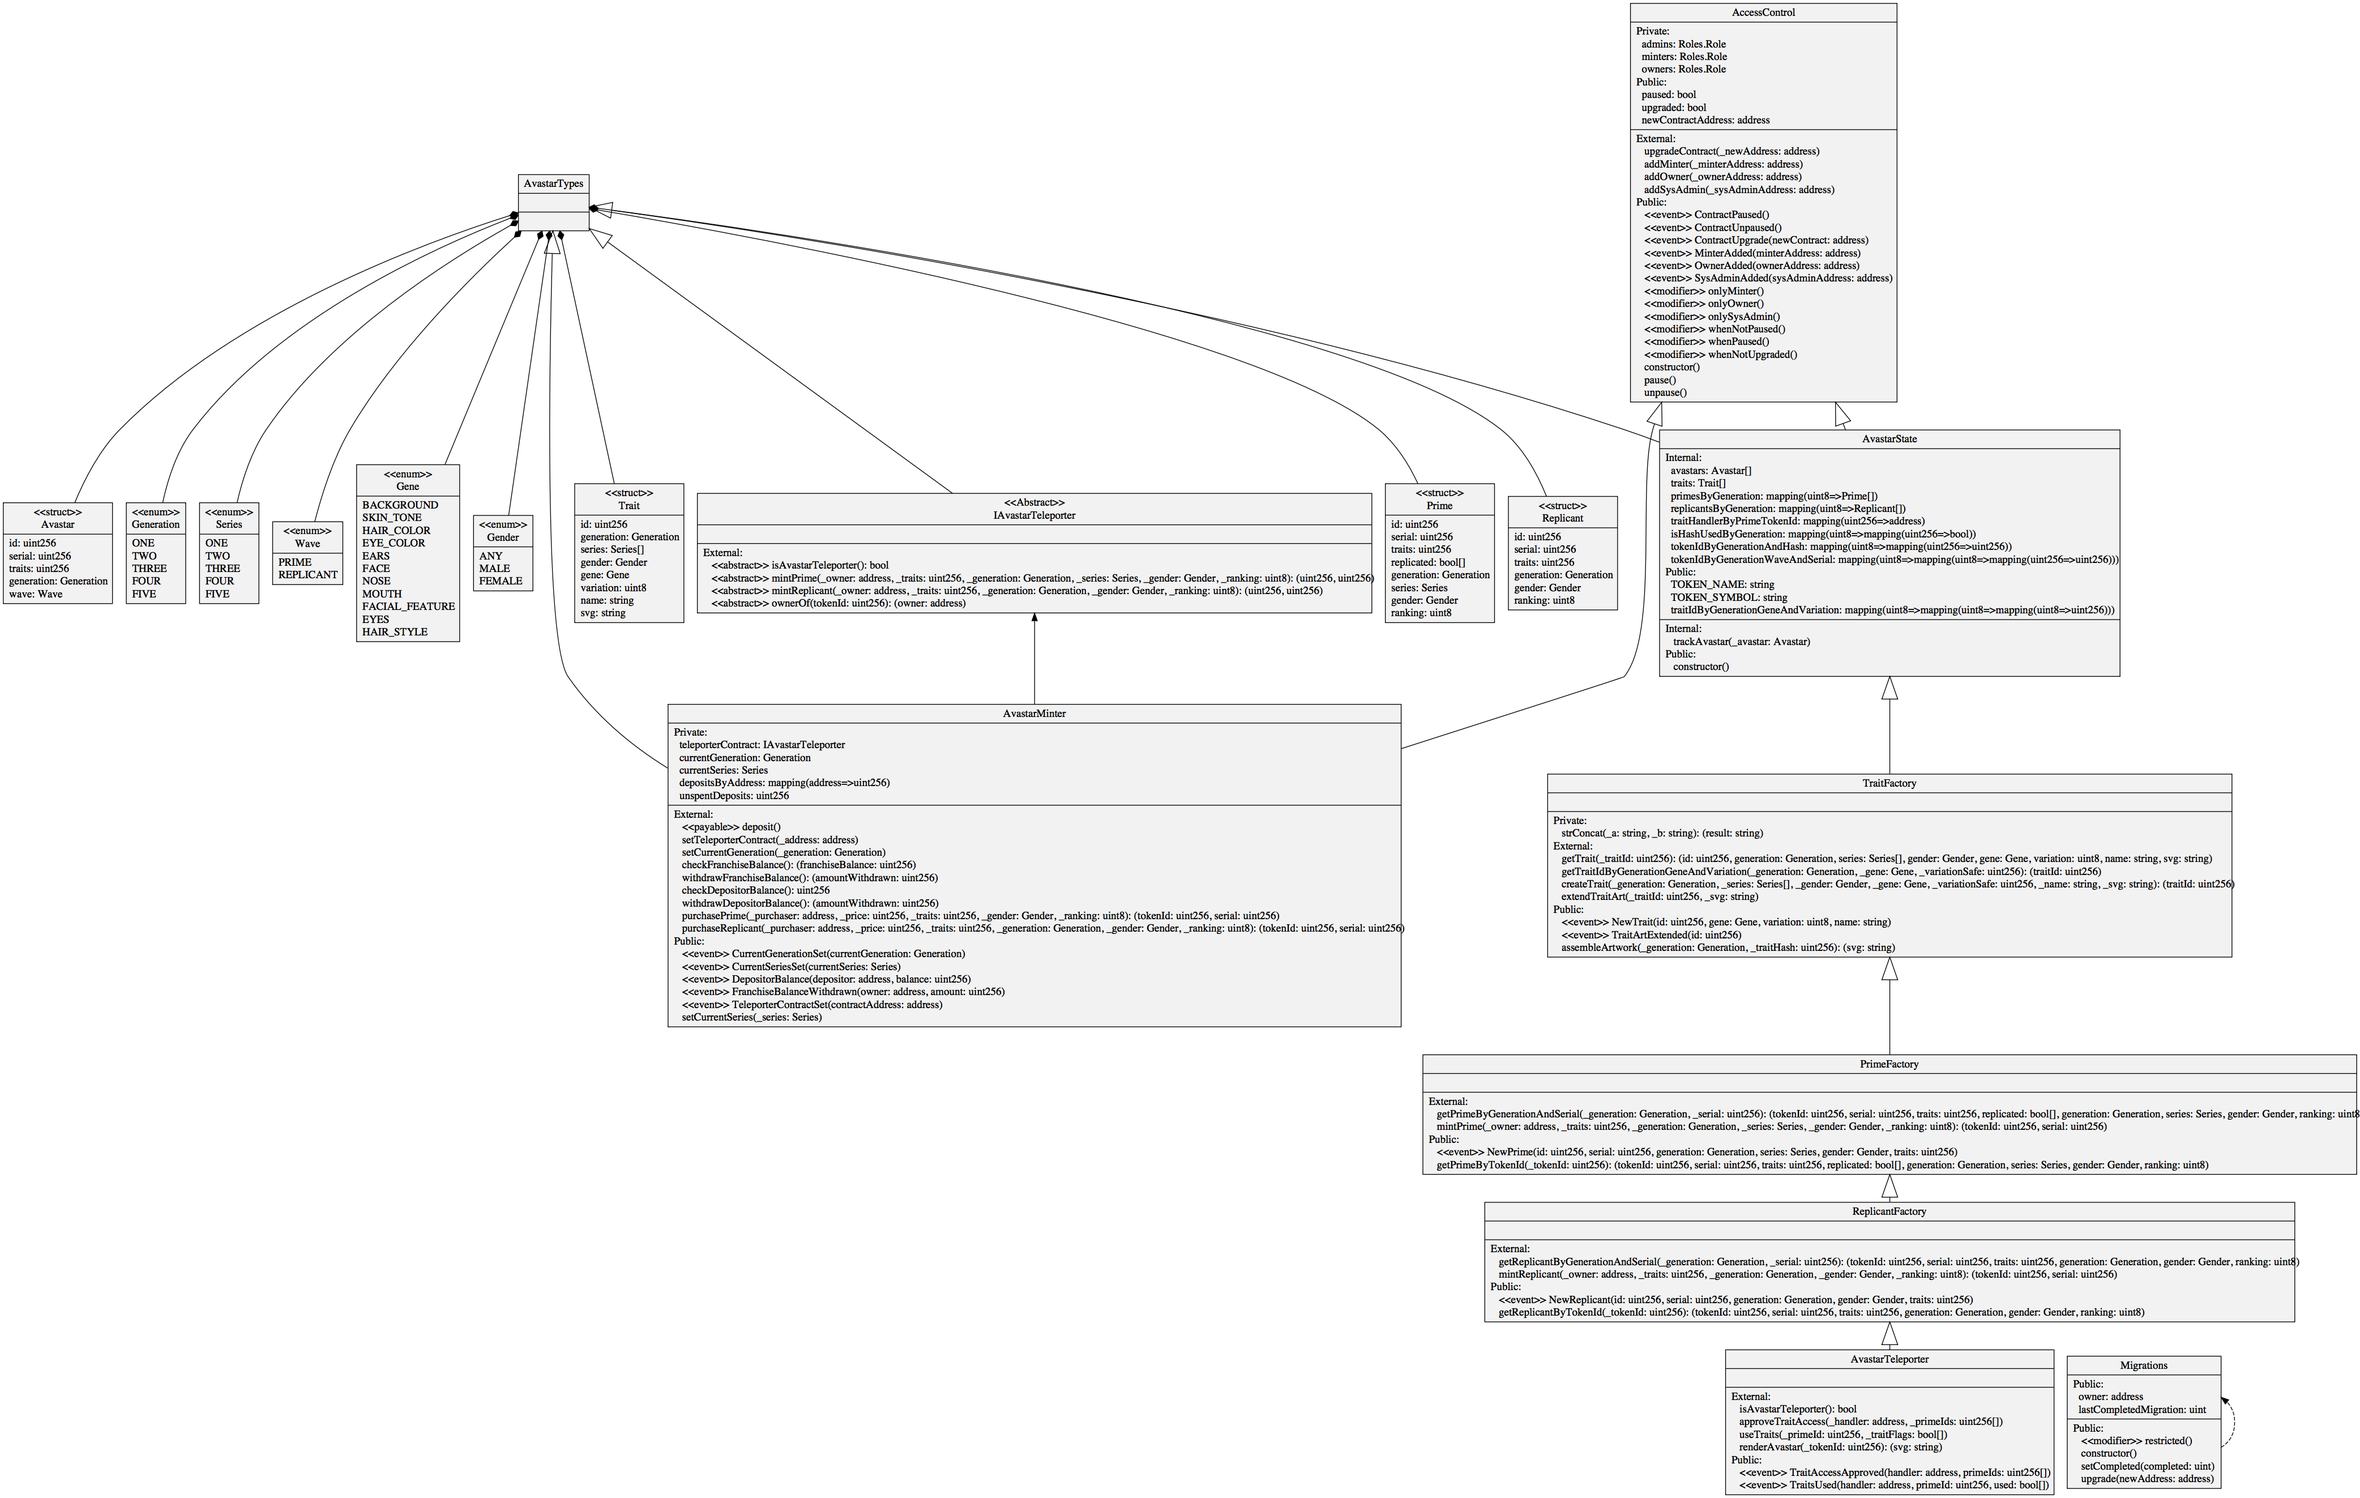
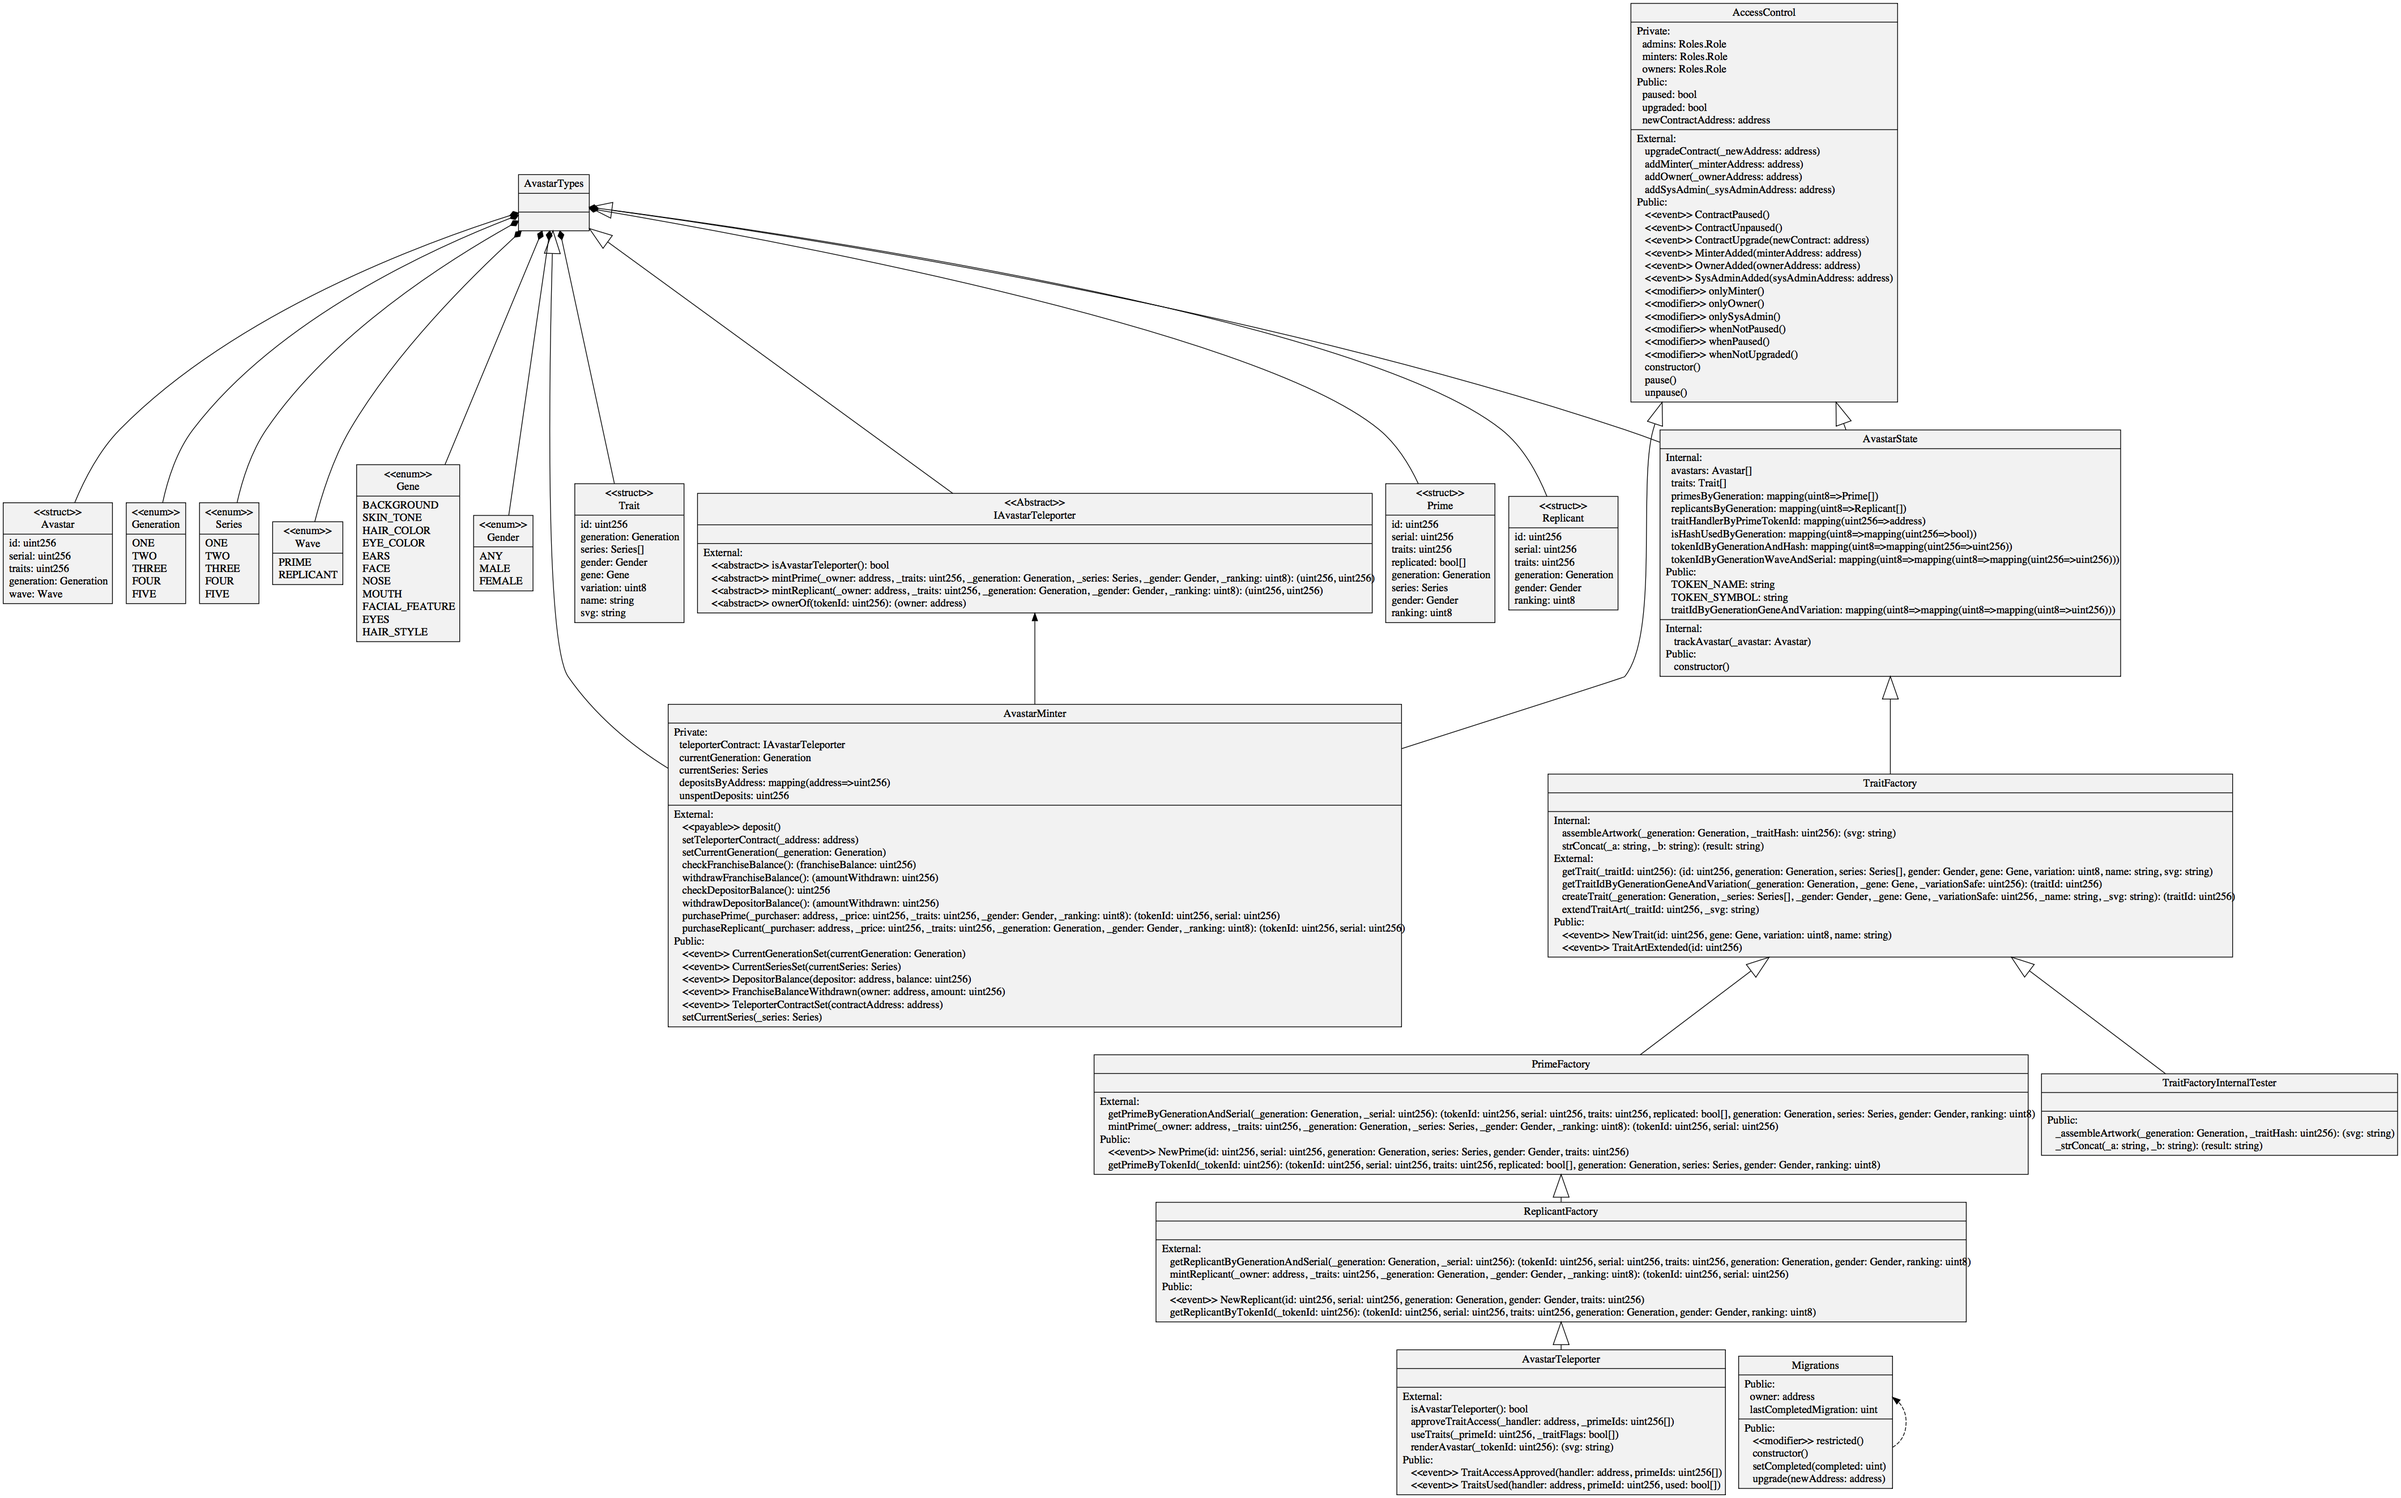
Test TraitFactory internal functions * In TraitFactory.sol,   - changed assembleArtwork from public to internal so that no one can just randomly generate art from a hash and generation.   - changed strConcat from private to internal so that it can be tested via descendant contract
* Added TraitFactoryInternalTester.sol,
  - is a side contract for testing only, not deployed or inherited
  - extends TraitFactory allowing tests to access any public or external TraitFactory function
  - has public _assembleArtwork function that is a passthrough for testing TraitFactory.assembleArtwork
    - has public _strConcat function that is a passthrough for testing TraitFactory.strConcat

* Updated docs and UML

* In TraitFactoryTest.js,
  - import TraitFactoryInternalTester.sol
  - use TraitFactoryInternalTester as contract for all tests instead of TraitFactory
  - added tests that TraitFactory
    - "should allow descendent contracts to assemble artwork by generation and trait hash"
    - "should allow descendent contracts to concatenate two strings"

* In package.json,
  - removed some unused dependencies and config

diff --git a/test/TraitFactoryTest.js b/test/TraitFactoryTest.js
@@ -1,4 +1,5 @@
 const TraitFactory = artifacts.require("./TraitFactory.sol");
+const InternalTester = artifacts.require("./TraitFactoryInternalTester.sol");
 const truffleAssert = require('truffle-assertions');
 const exceptions = require ("./util/Exceptions");
 const constants = require("./util/Constants");
@@ -8,7 +9,7 @@ const BN = require('bn.js');
 
 contract('TraitFactory', function(accounts) {
 
-    let contract ;
+    let contract;
     const sysAdmin = accounts[0];
     const nonSysAdmin = accounts[1];
 
@@ -87,7 +88,11 @@ contract('TraitFactory', function(accounts) {
 
     before(async () => {
         // Get the contract instance for this suite
-        contract = await TraitFactory.new();
+        // The InternalTraitFactoryTesterContract inherits TraitFactory, so
+        // all TraitFactory's public and external methods are available
+        // additionally, pass-through functions for testing TraitFactory's
+        // internal functions are available.
+        contract = await InternalTester.new();
 
         // Unpause the contract
         await contract.unpause();
@@ -367,8 +372,7 @@ contract('TraitFactory', function(accounts) {
 
     });
 
-    // TODO: Make this contract function internal and only call it from renderAvastar()
-    it("should allow anyone to assemble artwork by generation and trait hash", async function() {
+    it("should allow descendent contracts to assemble artwork by generation and trait hash", async function() {
 
         const traits = [trait1, trait2];
 
@@ -379,9 +383,21 @@ contract('TraitFactory', function(accounts) {
         const expected = traitMath.computeArt(traits);
 
         // Get the rendered artwork
-        const art = await contract.assembleArtwork(constants.GENERATION.ONE, traitHash, {from: sysAdmin});
+        const art = await contract._assembleArtwork(constants.GENERATION.ONE, traitHash, {from: sysAdmin});
 
         assert.equal(art, expected, "Assembled art wasn't correct");
+
+    });
+
+    it("should allow descendent contracts to concatenate two strings", async function() {
+
+        // Compute the expected result
+        const expected = `${trait1.svg}${trait2.svg}`;
+
+        // Get the concatenated string
+        const result = await contract._strConcat(trait1.svg, trait2.svg);
+
+        assert.equal(result, expected, "Concatenated string wasn't correct");
 
     });
 

diff --git a/docs/contracts/TraitFactory.md b/docs/contracts/TraitFactory.md
@@ -3,7 +3,7 @@
 View Source: [contracts/TraitFactory.sol](https://github.com/Dapp-Wizards/Avastars-Contracts/blob/master/contracts/TraitFactory.sol)
 
 **TraitFactory** **↗ Extends: [AvastarState](contracts/AvastarState.md)**
-**↘ Derived Contracts: [PrimeFactory](contracts/PrimeFactory.md)**
+**↘ Derived Contracts: [PrimeFactory](contracts/PrimeFactory.md), [TraitFactoryInternalTester](contracts/TraitFactoryInternalTester.md)**
 
 ## **Events**
 
@@ -182,7 +182,7 @@ Assemble the artwork for a given Trait hash with art from the given Generation
 
 ```solidity
 function assembleArtwork(enum AvastarTypes.Generation _generation, uint256 _traitHash)
-public view
+internal view
 returns (string svg)
 ```
 
@@ -205,7 +205,7 @@ Concatenate two strings
 
 ```solidity
 function strConcat(string _a, string _b)
-private pure
+internal pure
 returns (string result)
 ```
 

diff --git a/docs/sidebar.md b/docs/sidebar.md
@@ -15,6 +15,7 @@
 	* [PrimeFactory](contracts/PrimeFactory.md)
 	* [ReplicantFactory](contracts/ReplicantFactory.md)
 	* [TraitFactory](contracts/TraitFactory.md)
+	* [TraitFactoryInternalTester](contracts/TraitFactoryInternalTester.md)
 
 * FOREIGN CONTRACTS
 	* [Address](contracts/Address.md)
